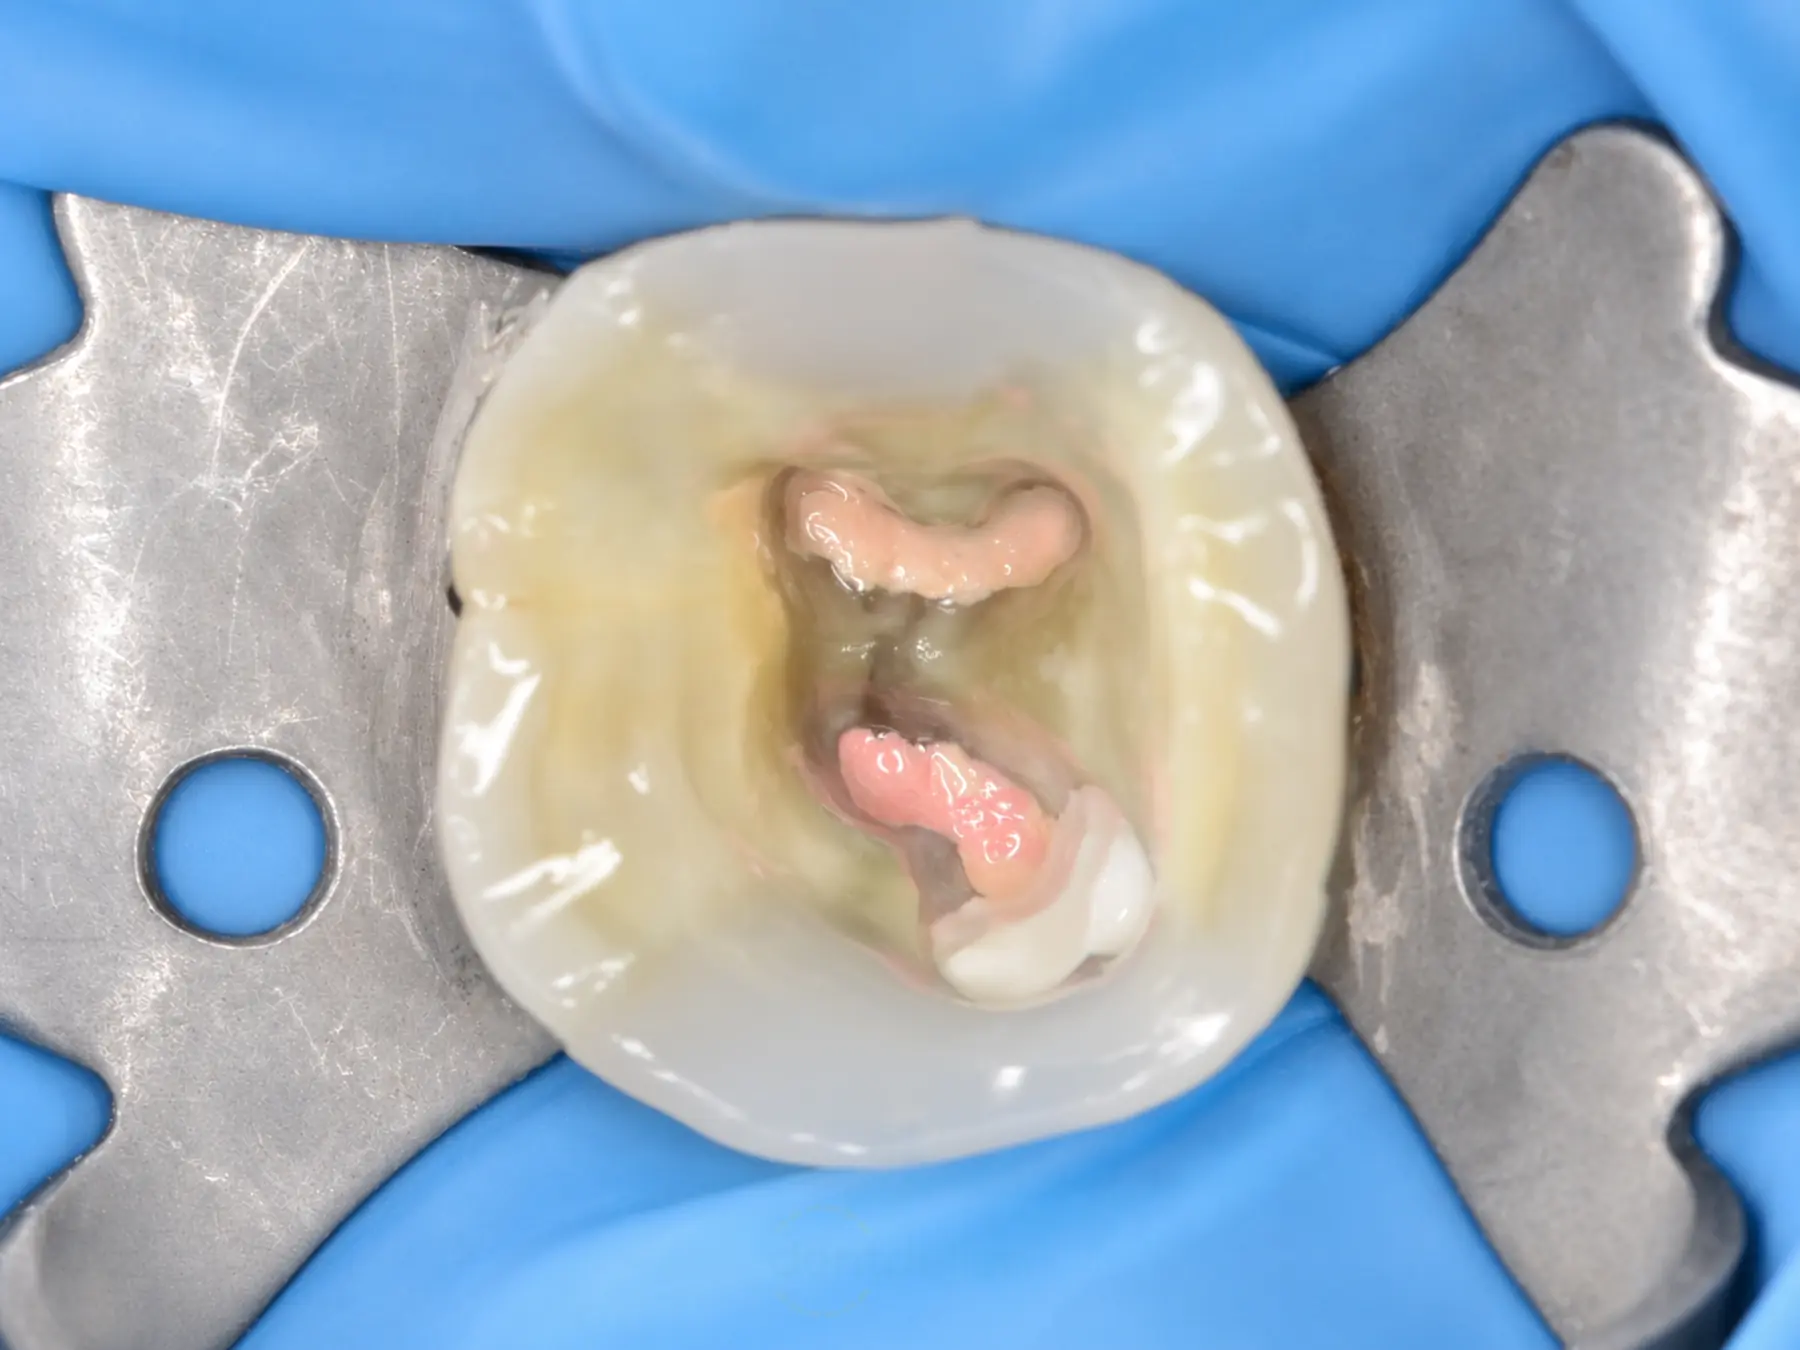
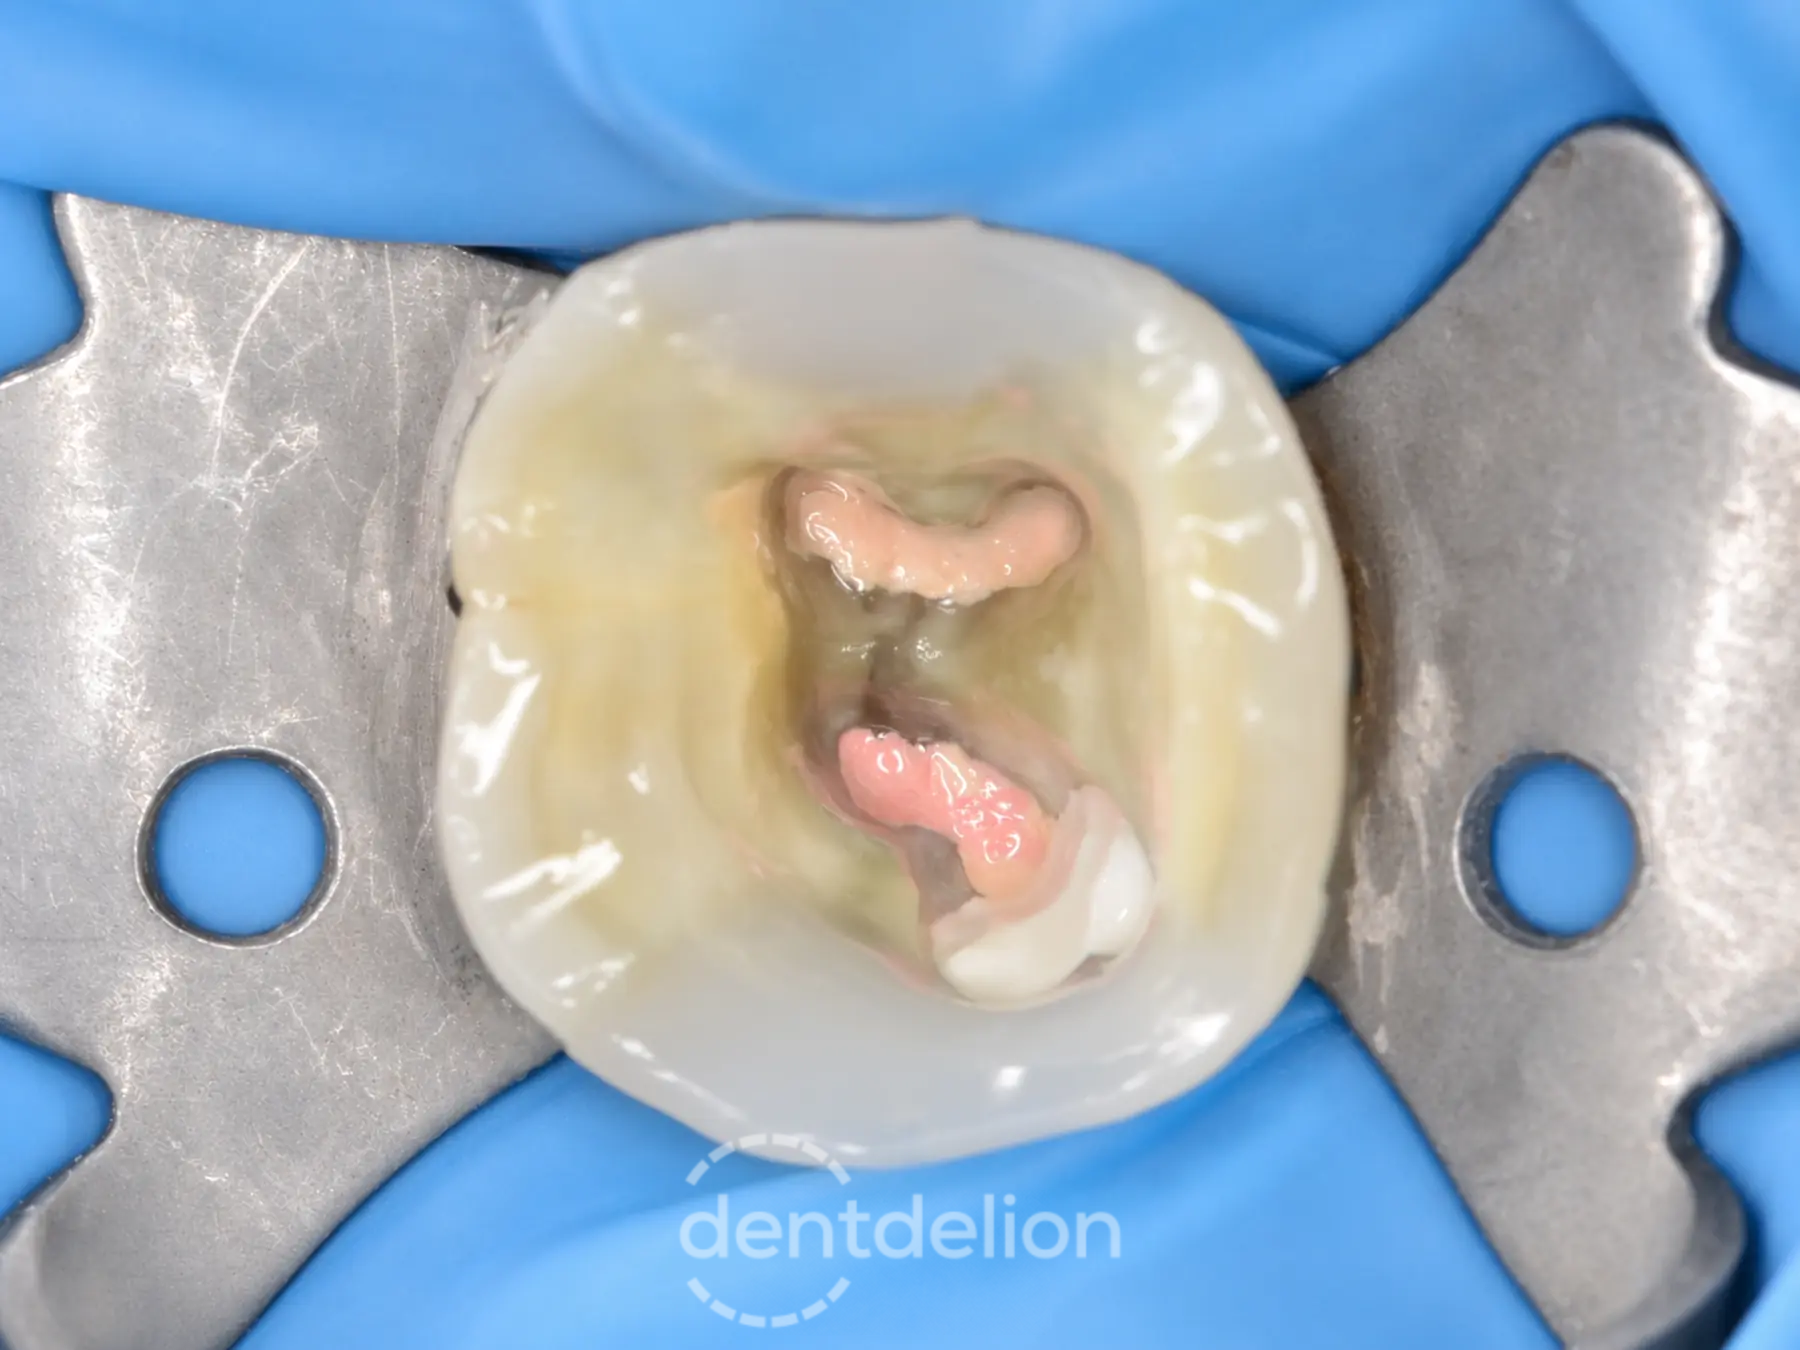
Make the endodontic photo watermark visible at page size

Changed region(s): [[0.3733, 0.84, 0.6222, 0.9644], [0.4044, 0.9644, 0.4667, 0.9956]]

diff --git a/vykony.html b/vykony.html
@@ -65,8 +65,8 @@
       <section class="performance-section endodontics-section" id="endodoncie" aria-labelledby="endodontics-title">
         <div class="performance-lead">
           <figure class="clinical-figure clinical-figure-endo">
-            <a href="assets/images/endo-koferdam-dentdelion.webp" target="_blank" rel="noopener noreferrer" aria-label="Otevřít klinickou fotografii endodontického ošetření v plné velikosti (nová karta)">
-              <img src="assets/images/endo-koferdam-dentdelion.webp" width="1800" height="1350" alt="Detail endodontického ošetření v izolaci koferdamem – fotografie ordinace Dentdelion">
+            <a href="assets/images/endo-koferdam-dentdelion.webp?v=20261021-vodoznak" target="_blank" rel="noopener noreferrer" aria-label="Otevřít klinickou fotografii endodontického ošetření v plné velikosti (nová karta)">
+              <img src="assets/images/endo-koferdam-dentdelion.webp?v=20261021-vodoznak" width="1800" height="1350" alt="Detail endodontického ošetření v izolaci koferdamem – fotografie ordinace Dentdelion">
             </a>
           </figure>
           <div class="performance-copy">
